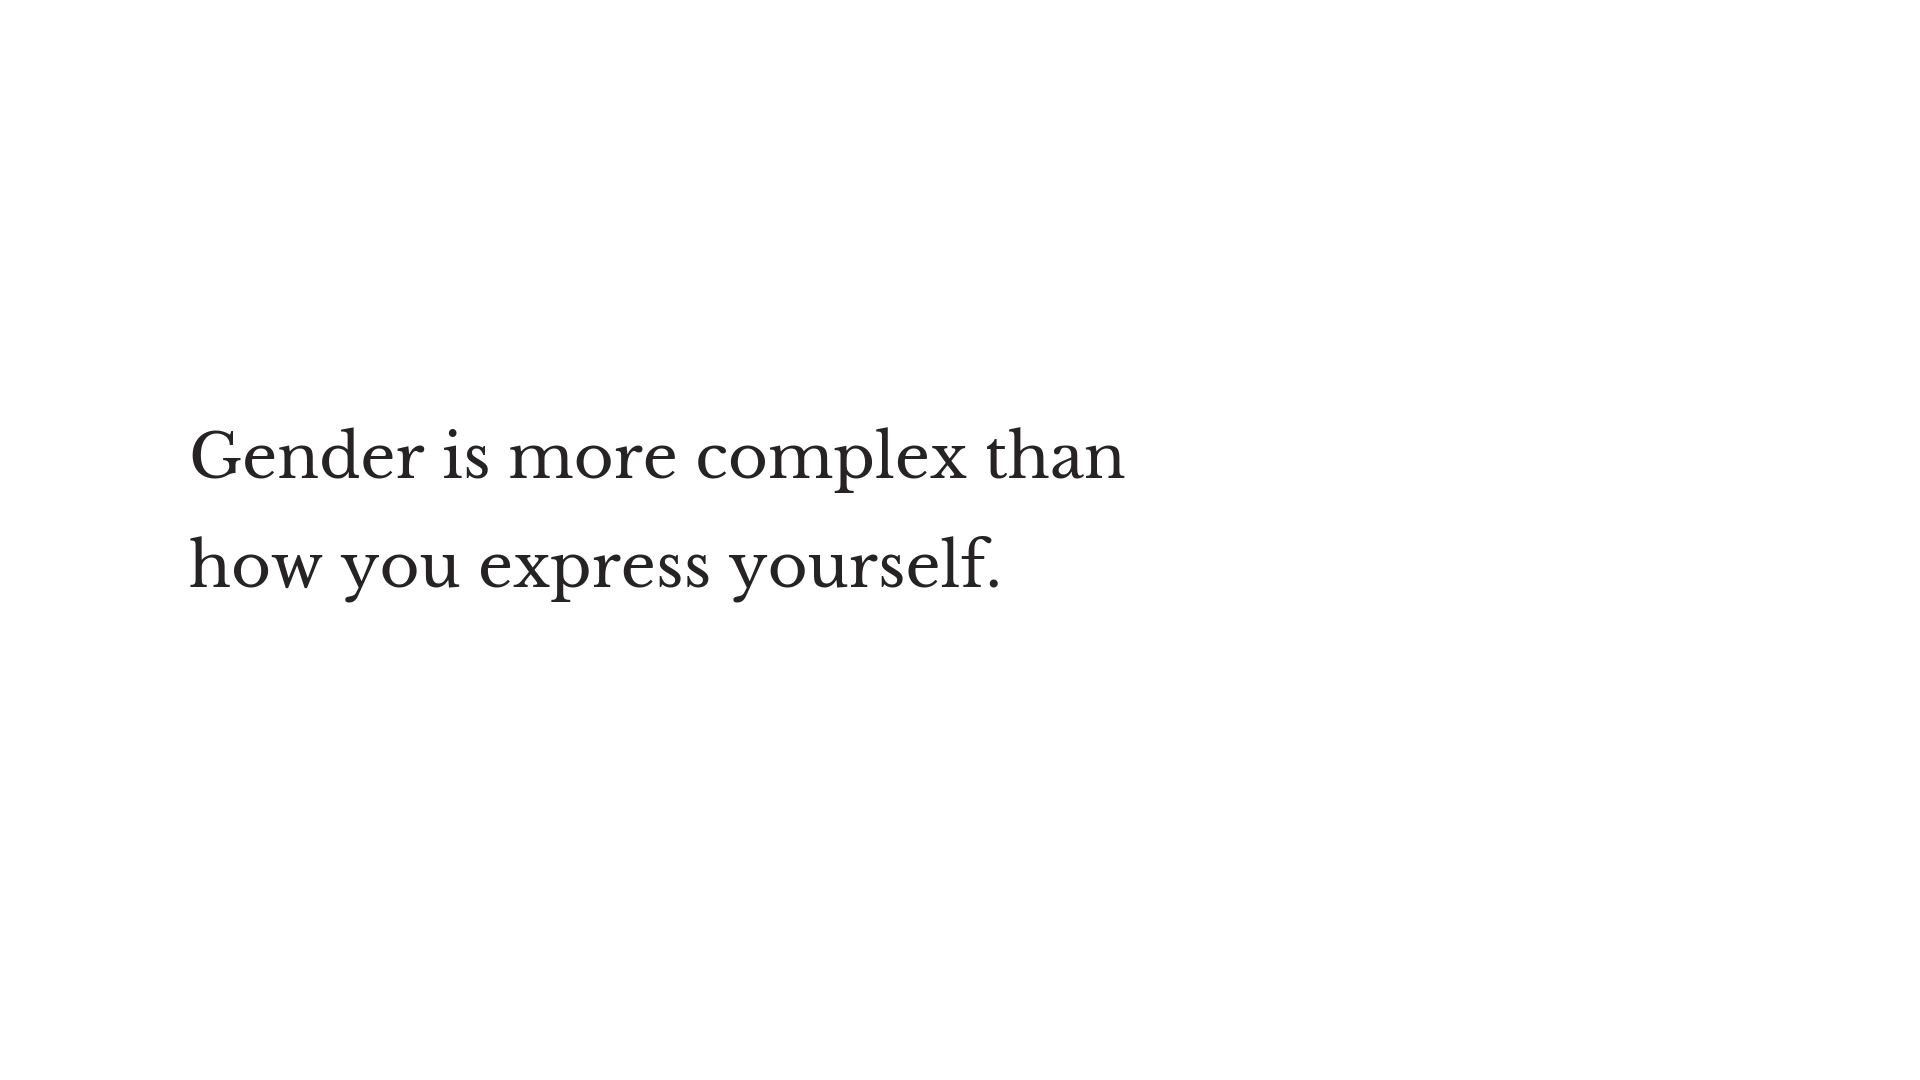
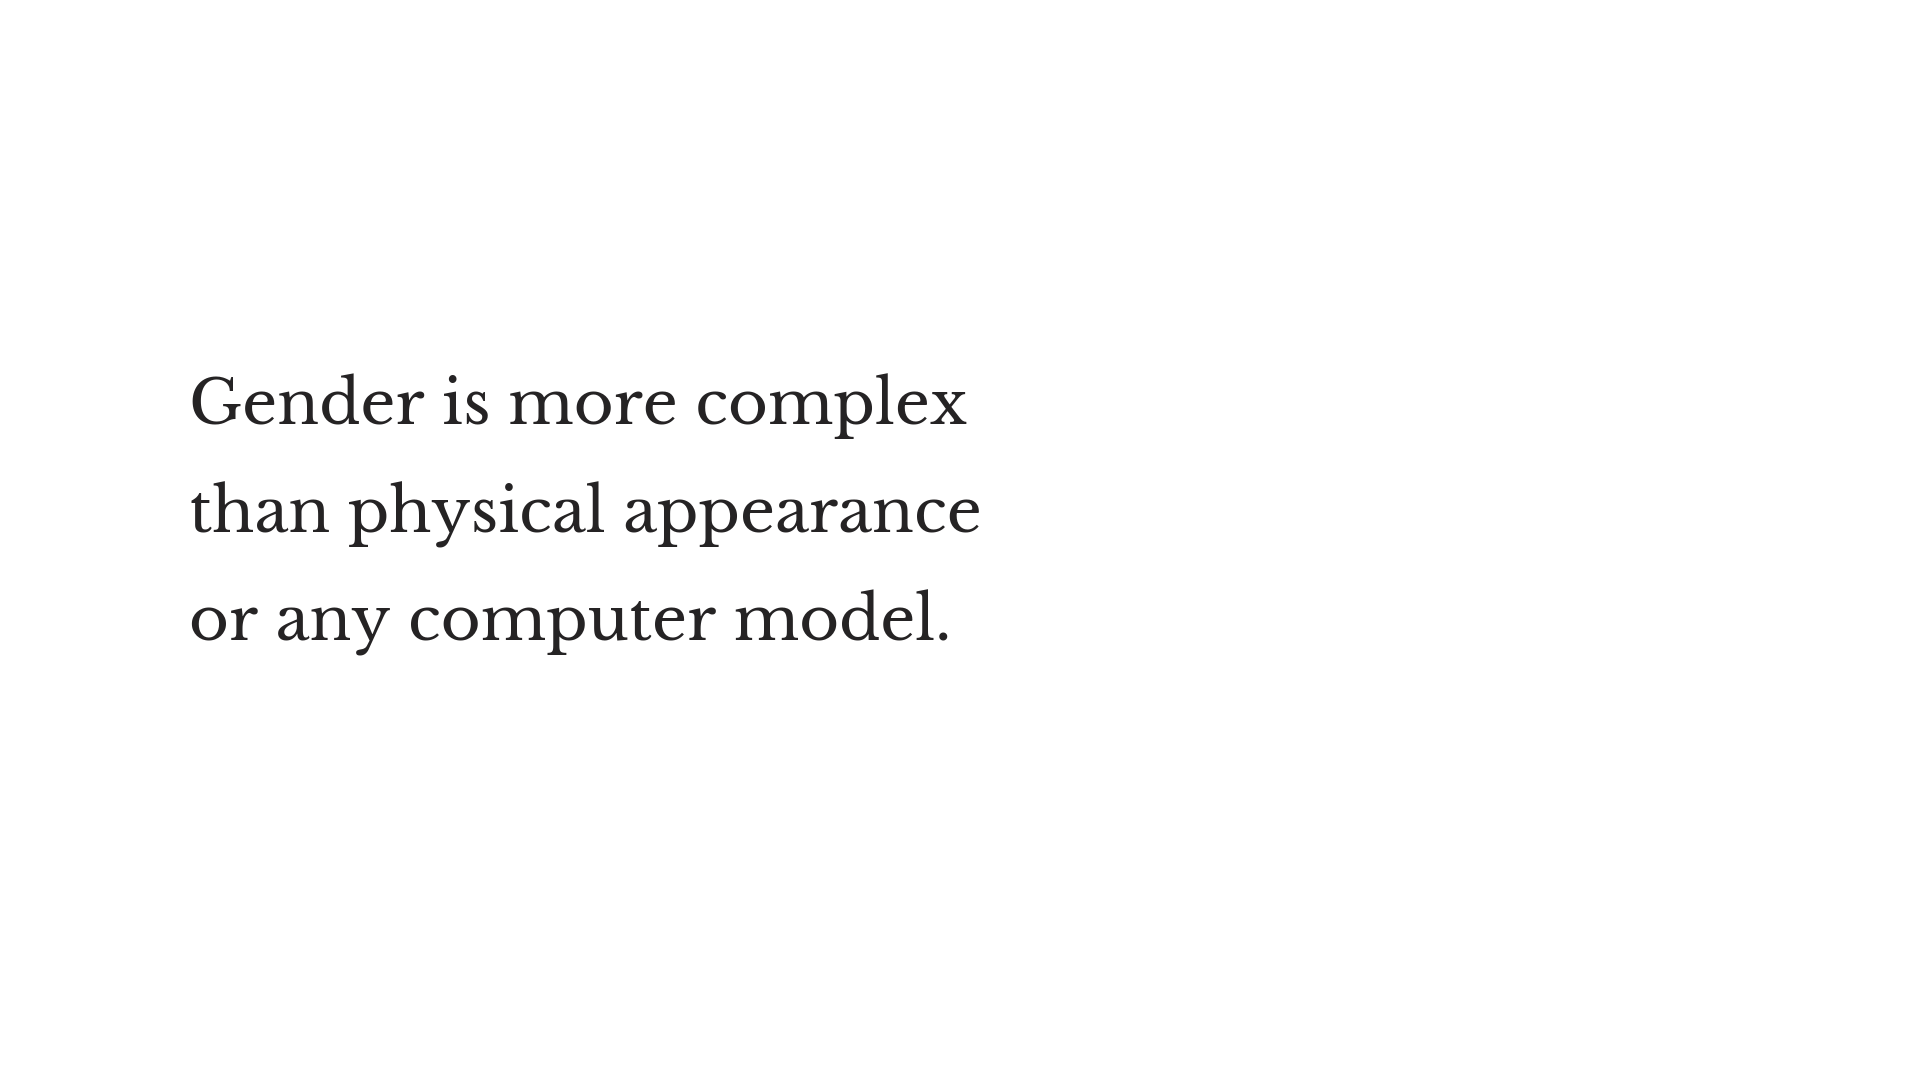
Updated text, switched axis

Changed region(s): [[0.0938, 0.3361, 0.5938, 0.6111]]

diff --git a/render_animations.py b/render_animations.py
@@ -35,7 +35,7 @@ y_height = 1080
 text_x = 0.0486689814815
 text_y = 0.857008744856
 
-force_show = False
+force_show = True
 frame_encoding_speed = 4
 frame_per_second = 15*frame_encoding_speed
 
@@ -105,11 +105,12 @@ def build_intro_slide():
     g = plt.gcf()
 
     lines = [
-        "Gender is more complex than ",
-        "how you express yourself."
+        "Gender is more complex",
+        "than physical appearance",
+        "or any computer model.",
     ]
     for k,line in enumerate(lines):
-        g.text(text_x-dx/2, text_y+(k+2.5)*dx+dx/2, line, fontsize=22, **args)
+        g.text(text_x-dx/2, text_y+(k+2.0)*dx+dx/2, line, fontsize=22, **args)
     plt.savefig(f_intro_png2, dpi=200)
 
 
@@ -130,7 +131,13 @@ def animate(name):
     df["timestamp"] = df.timestamp.astype(float)
     df["seconds"] = df.timestamp / float(frame_encoding_speed)
 
+    # Convert the measurement into a discretized value
     df["gender"] = (df["gender"] * 100).astype(int)
+
+    # Swap direction
+    df["gender"] = 100 - df.gender
+
+    # Compute smoothed curve
     df["EMA"] = df.gender.ewm(span=ewm_span).mean()
     df = df[:debug_cutoff]
 
@@ -146,7 +153,7 @@ def animate(name):
     ax.plot(X, np.ones(X.shape) * 50, '--', color=red_line_color, alpha=0.5)
 
     ax.set_ylabel(
-        r"female $\leftarrow$ Gender spectrum $\rightarrow$ male",
+        r"male $\leftarrow$ Gender expression $\rightarrow$ female",
         fontproperties=prop,
         color=pal[-1],
     )
@@ -209,14 +216,14 @@ def animate(name):
         textbox1.set_text("Spectrum: {:d}".format(int(val)))
 
         if val >= 60:
-            label = "Male"
+            label = "Female"
         elif val > 40:
             label = "Androgynous"
         elif val >= 0:
-            label = "Female"
+            label = "Male"
 
         textbox2.set_text(label)
-        textbox2.set_color(pal[min(int(val), 99)])
+        textbox2.set_color(pal[min(int(100-val), 99)])
 
         fig.canvas.draw()
         fig.canvas.flush_events()
@@ -294,4 +301,4 @@ def build_mp4(image_dir, label):
 if __name__ == "__main__":
     build_intro_slide()    
     animate(image_dir)
-    build_mp4(image_dir, label)
+    #build_mp4(image_dir, label)
